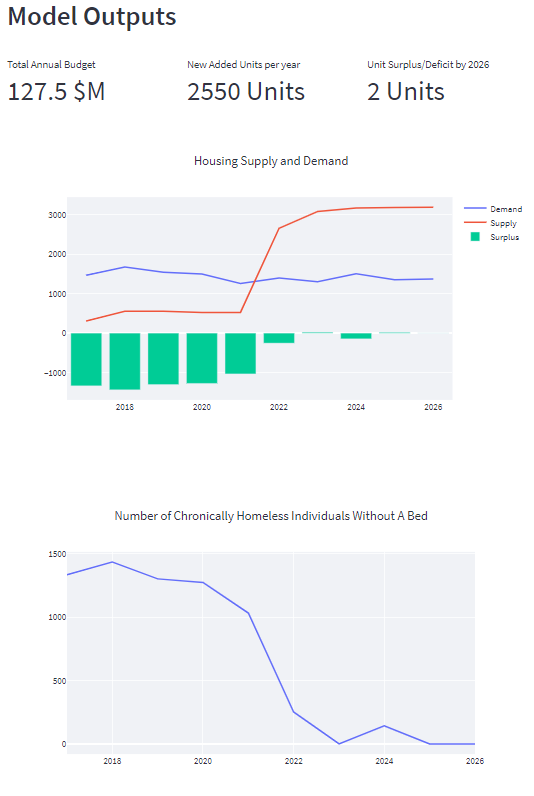
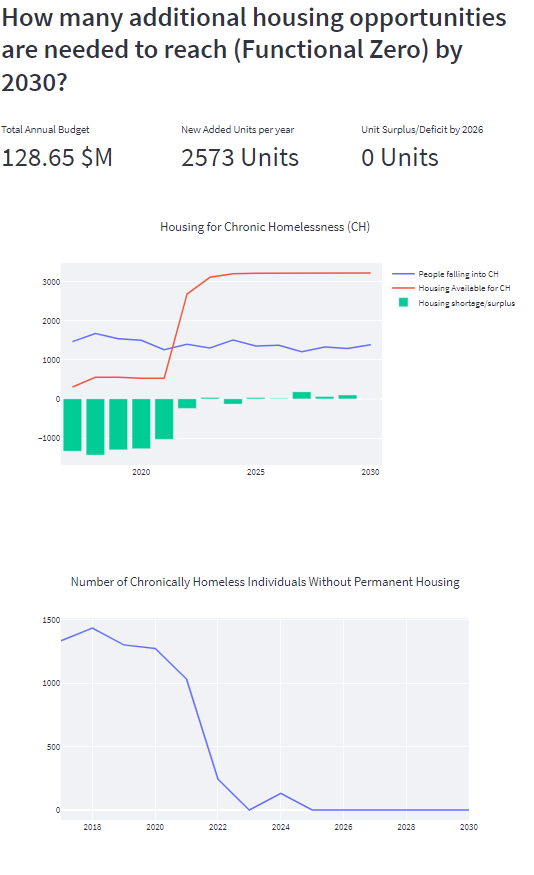
updated screenshot

diff --git a/webapp.py b/webapp.py
@@ -17,13 +17,11 @@ white_list = list(demographic_data.columns)[15:]
 
 st.header("Forecasting Model")
 turnover_rate = st.slider(label="Turn over rate", min_value=0.0, max_value=1.0, value=0.2)
-added_units = st.slider(label="Added Units per Year", min_value=300, max_value=3000, value=2547)
+added_units = st.slider(label="Added Units per Year", min_value=300, max_value=3000, value=2573)
 unit_effectiveness = st.slider(label="1 unit of housing reduces homelessness by", min_value=0.2, max_value=1.0, value=0.43)
 cost_per_unit = st.text_input(label="Cost per Unit ($)", value=50000)
 
 total_budget = float(cost_per_unit)*added_units
-
-
 
 
 first_future_year = 2022
@@ -53,7 +51,7 @@ for i in range(len(chart1_data)):
 
 chart1_data["delta"] = chart1_data["delta"].astype(float)
 
-st.header("Model Outputs")
+st.header("How many additional housing opportunities are needed to reach (Functional Zero) by 2030?")
 # Main Outputs
 col1, col2, col3 = st.columns(3)
 col1.metric(label="Total Annual Budget",value=str(total_budget/1000000)+" $M")
@@ -65,17 +63,17 @@ col3.metric(label="Unit Surplus/Deficit by 2026", value=str(int(chart1_data["del
 colors = px.colors.qualitative.Plotly
 fig = go.Figure()
 fig.add_traces(
-    go.Scatter(x=chart1_data['year'], y = chart1_data['demand'], mode = 'lines', line=dict(color=colors[0]), name="Demand")
+    go.Scatter(x=chart1_data['year'], y = chart1_data['demand'], mode = 'lines', line=dict(color=colors[0]), name="People falling into CH")
 )
 fig.add_traces(
-    go.Scatter(x=chart1_data['year'], y = chart1_data['number_of_beds_available'], mode = 'lines', line=dict(color=colors[1]), name="Supply")
+    go.Scatter(x=chart1_data['year'], y = chart1_data['number_of_beds_available'], mode = 'lines', line=dict(color=colors[1]), name="Housing Available for CH")
 )
 fig.add_traces(
-    go.Bar(x=chart1_data['year'], y=chart1_data['delta'], name="Surplus")
+    go.Bar(x=chart1_data['year'], y=chart1_data['delta'], name="Housing shortage/surplus")
 )
 fig.update_layout(
     title = {
-        'text': "Housing Supply and Demand",
+        'text': "Housing for Chronic Homelessness (CH)",
         'y':0.9,
         'x':0.5,
         'xanchor': 'center',
@@ -94,7 +92,7 @@ fig2.add_traces(
 
 fig2.update_layout(
     title = {
-        'text': "Number of Chronically Homeless Individuals Without A Bed",
+        'text': "Number of Chronically Homeless Individuals Without Permanent Housing",
         'y':0.9,
         'x':0.5,
         'xanchor': 'center',
